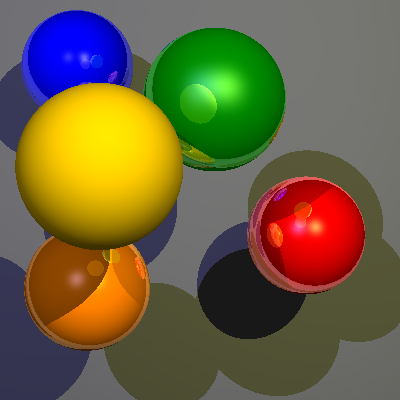
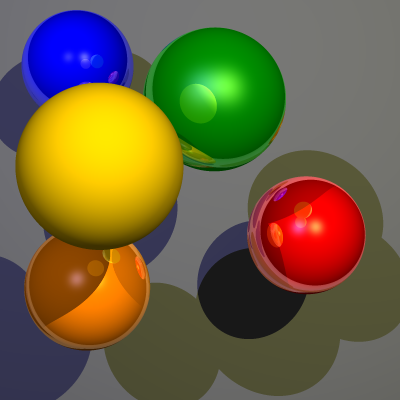
Configurable Reflection

diff --git a/scene.cpp b/scene.cpp
@@ -21,9 +21,10 @@
 #define recursion_max 1
 
 
-Color Scene::trace(const Ray &ray, int recursion)
+Color Scene::trace(const Ray &ray, int recursionLevel)
 {
-    //if (recursion > 0) return Color();
+    if (recursionLevel < 0)
+        return Color(0.0f,0.0f,0.0f);
     
     // Find hit object and distance
     Hit min_hit(std::numeric_limits<double>::infinity(),Vector());
@@ -71,10 +72,6 @@ Color Scene::trace(const Ray &ray, int recursion)
     Color specular_component(0.0f,0.0f,0.0f);
     Color reflection_component(0.0f,0.0f,0.0f);
     
-    //Vector reflection_vector(V - 2*(V.dot(N)) * N);
-    //reflection_component += trace(Ray(hit, reflection_vector));
-    
-    
     for (unsigned int i=0; i < lights.size(); i++)
     {
         Vector hit_to_light(lights.at(i)->position - hit);
@@ -93,37 +90,42 @@ Color Scene::trace(const Ray &ray, int recursion)
         {
             Vector reflection_vector((2*(unit_light.dot(N)))*N-unit_light);
             specular_factor = material->ks * pow(max(0,reflection_vector.dot(V)), material->n);
-            reflection_component = trace(Ray(hit, reflection_vector), recursion + 1) * material->ks;
+            reflection_component = trace(Ray(hit, reflection_vector), --recursionLevel) * material->ks;
         }
         
-        Ray pointToLight(hit, unit_light); // This is a vector from the hit point to the light source
-        bool shadow = false;
-        
-        for (unsigned int i = 0; i < objects.size(); ++i) // Loops through all the objects in the scene,
+        if (shadowsEnabled)
         {
-            Hit hit(objects[i]->intersect(pointToLight));
-            if (hit.t >= 0)
+            Ray pointToLight(hit, unit_light); // This is a vector from the hit point to the light source
+            bool shadow = false;
+            
+            for (unsigned int i = 0; i < objects.size(); ++i) // Loops through all the objects in the scene,
             {
-                shadow = true;
+                Hit hit(objects[i]->intersect(pointToLight));
+                if (hit.t >= 0)
+                {
+                    shadow = true;
+                }
+            }
+            
+            if (shadow) // if the object is in shadows, only the ambient component contributes to the lighting
+            {
+                ambient_component += material->ka * material->color * lights.at(i)->color;
+            }
+            else // if not, then all the components are considered
+            {
+                ambient_component += material->ka * material->color * lights.at(i)->color;
+                specular_component += specular_factor * lights.at(i)->color;
+                diffuse_component += material->kd * cosine_factor * material->color * lights.at(i)->color;
             }
         }
-        
-        if (shadow) // if the object is in shadows, only the ambient component contributes to the lighting
-        {
-            ambient_component += material->ka * material->color * lights.at(i)->color;
-        }
-        else // if not, then all the components are considered
+        else
         {
             ambient_component += material->ka * material->color * lights.at(i)->color;
             specular_component += specular_factor * lights.at(i)->color;
             diffuse_component += material->kd * cosine_factor * material->color * lights.at(i)->color;
         }
-
     }
-    
-    
     return Color(ambient_component + specular_component + diffuse_component + reflection_component);
-    //return Color(1.0f, 0.0f, 0.0f);
 }
 
 Color Scene::zBufferTrace(const Ray &ray)
@@ -178,7 +180,6 @@ void Scene::render(Image &img, string mode)
 {
     int w = img.width();
     int h = img.height();
-    cout << mode << endl;
     if (mode == "phong")
     {
         if (antiAliasingEnabled)
@@ -194,7 +195,7 @@ void Scene::render(Image &img, string mode)
                         {
                             Point pixel(x+((double)subX/4), h-1-y+((double)subY/4), 0);
                             Ray ray(eye, (pixel-eye).normalized());
-                            Color subColor = trace(ray);
+                            Color subColor = trace(ray, maxRecursionDepth);
                             pixelColor = pixelColor + subColor;
                         }
                     }
@@ -212,7 +213,7 @@ void Scene::render(Image &img, string mode)
                 {
                     Point pixel(x+0.5, h-1-y+0.5, 0);
                     Ray ray(eye, (pixel-eye).normalized());
-                    Color col = trace(ray);
+                    Color col = trace(ray, maxRecursionDepth);
                     col.clamp();
                     img(x,y) = col;
                 }
@@ -264,7 +265,7 @@ void Scene::render(Image &img, string mode)
                         {
                             Point pixel(x+((double)subX/4), h-1-y+((double)subY/4), 0);
                             Ray ray(eye, (pixel-eye).normalized());
-                            Color subColor = trace(ray);
+                            Color subColor = trace(ray, maxRecursionDepth);
                             pixelColor = pixelColor + subColor;
                         }
                     }
@@ -282,7 +283,7 @@ void Scene::render(Image &img, string mode)
                 {
                     Point pixel(x+0.5, h-1-y+0.5, 0);
                     Ray ray(eye, (pixel-eye).normalized());
-                    Color col = trace(ray);
+                    Color col = trace(ray, maxRecursionDepth);
                     col.clamp();
                     img(x,y) = col;
                 }
@@ -349,4 +350,14 @@ void Scene::setEye(Triple e)
 void Scene::setAntiAliasing(bool state)
 {
     antiAliasingEnabled = state;
+}
+
+void Scene::setShadows(bool state)
+{
+    shadowsEnabled = state;
+}
+
+void Scene::setMaxRecursionDepth(int recursionDepth)
+{
+    maxRecursionDepth = recursionDepth;
 }

diff --git a/raytracer.cpp b/raytracer.cpp
@@ -46,6 +46,13 @@ Triple parseTriple(const YAML::Node& node)
     return t;
 }
 
+int parseInt(const YAML::Node& node)
+{
+    int i;
+    node>>i;
+    return i;
+}
+
 string parseString(const YAML::Node& node)
 {
     std::string s;
@@ -174,6 +181,28 @@ bool Raytracer::readScene(const std::string& inputFilename)
                 cerr << "Warning: AntiAliasing configs not found! Disabling AA..." << endl;
                 scene->setAntiAliasing(false);
             }
+            
+            try {
+                const YAML::Node& shadowsNode = doc["Shadows"];
+                string shadowsEnabled = parseString(shadowsNode);
+                if (shadowsEnabled == "true") {
+                    scene->setShadows(true);
+                } else {
+                    scene->setShadows(false);
+                }
+            } catch (exception) {
+                cerr << "Warning: Shadows configs not found! Default: disabled" << endl;
+                scene->setShadows(false);
+            }
+            
+            try {
+                const YAML::Node& maxRecDepthNode = doc["MaxRecursionDepth"];
+                int maxRecursionDepth = parseInt(maxRecDepthNode);
+                scene->setMaxRecursionDepth(maxRecursionDepth);
+            } catch (exception) {
+                cerr << "Warning: Reflection recursion depth invalid! Default: 2" << endl;
+                scene->setMaxRecursionDepth(2);
+            }
 
             // Read and parse the scene objects
             const YAML::Node& sceneObjects = doc["Objects"];
@@ -224,7 +253,7 @@ bool Raytracer::readScene(const std::string& inputFilename)
 void Raytracer::renderToFile(const std::string& outputFilename)
 {
     Image img(400,400);
-    cout << "Tracing..." << endl;
+    cout << "Tracing..." << endl;;
     scene->render(img, render_mode);
     cout << "Writing image to " << outputFilename << "..." << endl;
     img.write_png(outputFilename.c_str());

diff --git a/scene.h b/scene.h
@@ -30,9 +30,10 @@ private:
     std::vector<Light*> lights;
     Triple eye;
     bool antiAliasingEnabled = false;
+    bool shadowsEnabled = false;
     double min_t;
     double max_t;
-    int recursion_max;
+    int maxRecursionDepth;
 public:
     Color trace(const Ray &ray, int recursion = 0);
     Color zBufferTrace(const Ray &ray);
@@ -47,6 +48,8 @@ public:
     unsigned int getNumObjects() { return objects.size(); }
     unsigned int getNumLights() { return lights.size(); }
     void setAntiAliasing(bool state);
+    void setShadows(bool state);
+    void setMaxRecursionDepth(int recursionDepth);
 };
 
 #endif /* end of include guard: SCENE_H_KNBLQLP6 */

diff --git a/main.cpp b/main.cpp
@@ -23,7 +23,6 @@ int main(int argc, char *argv[])
     cout << "Introduction to Computer Graphics - Raytracer" << endl << endl;
     
     string const SCENE_FILE = "../../../Raytracer/scene01-reflect-lights-shadows.yaml";
-    //string const SCENE_FILE = "../../../Raytracer/scene01-shadows.yaml";
     string const OUTPUT_FILE = "../../../Raytracer/out.png";
 
     Raytracer raytracer;
